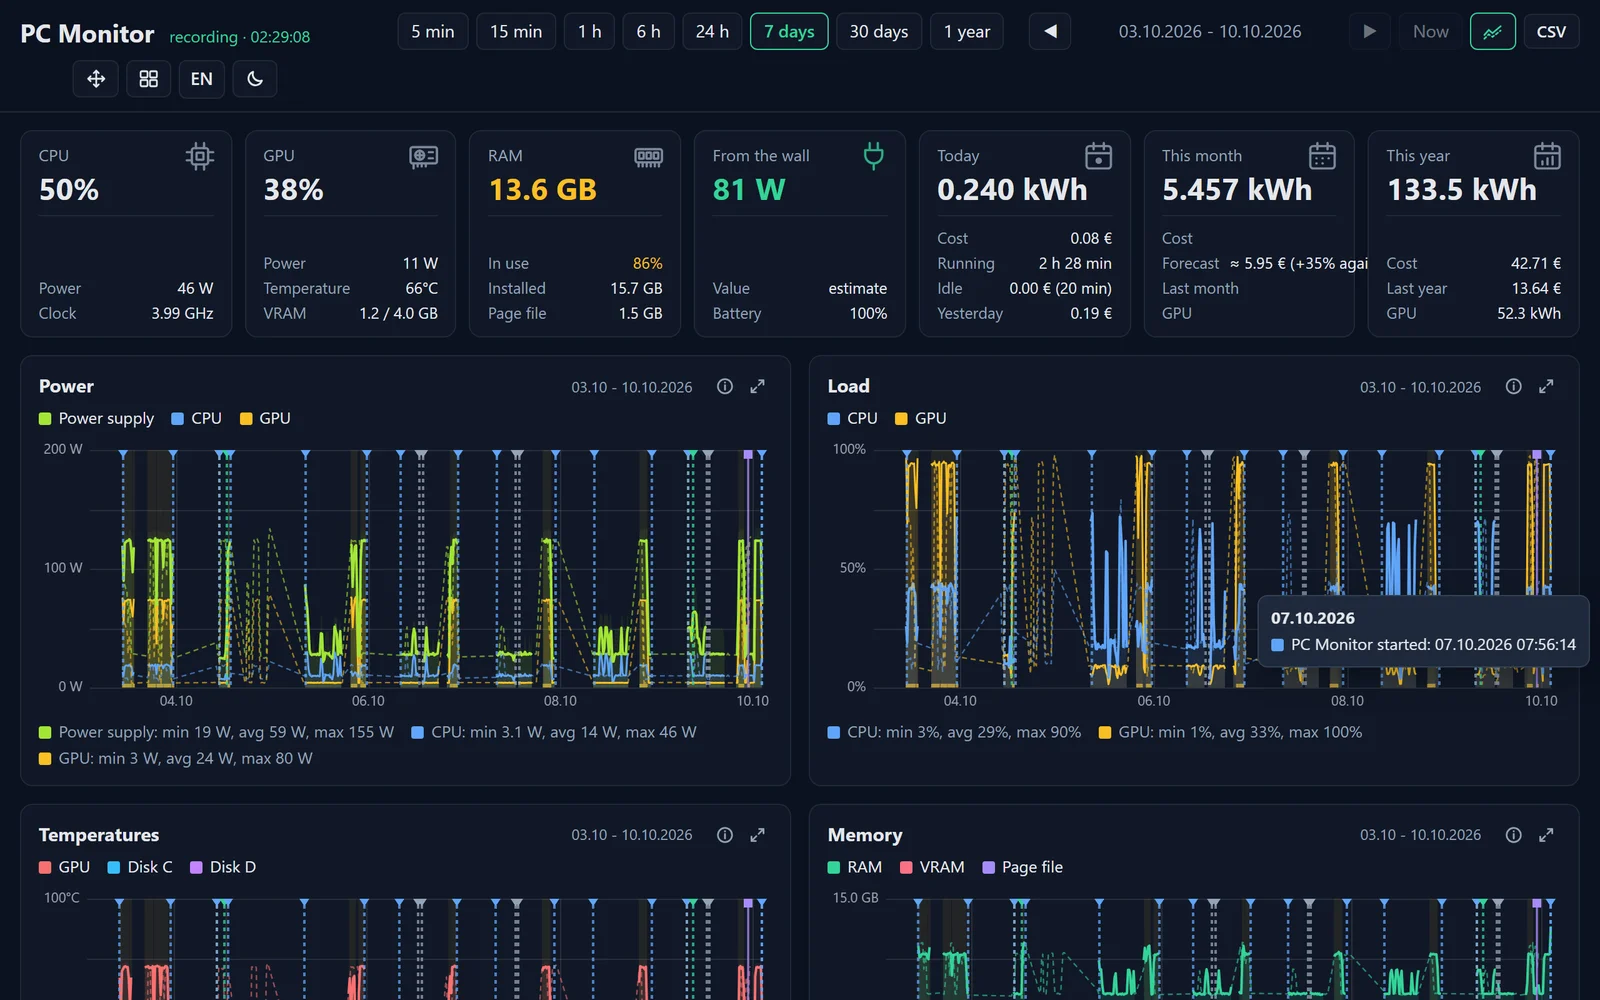
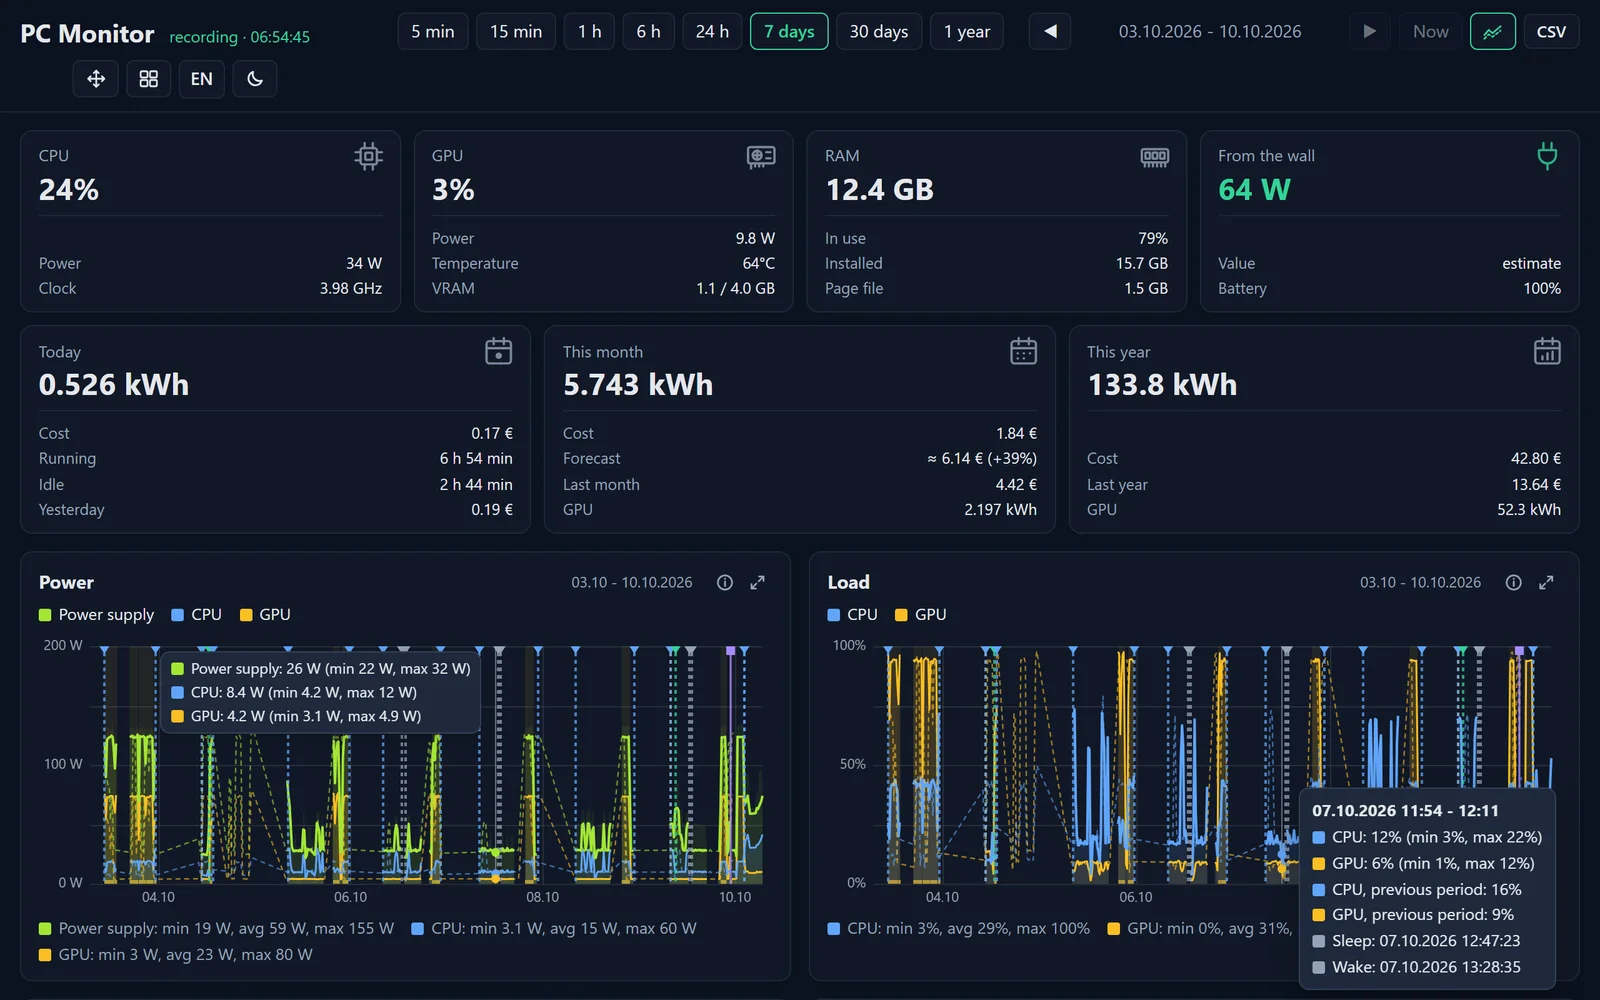
Release 1.14.1

diff --git a/README.md b/README.md
@@ -2,7 +2,7 @@
 
 # PC Monitor
 
-![version](https://img.shields.io/badge/version-v1.14.0-blue?style=flat)
+![version](https://img.shields.io/badge/version-v1.14.1-blue?style=flat)
 ![Platform](https://img.shields.io/badge/platform-Windows%2010%20%7C%2011%20x64-0078d4)
 ![Licence](https://img.shields.io/badge/licence-freeware-34d399)
 
@@ -55,7 +55,7 @@ it learns the draw of the rest of the hardware, which makes the wall estimate ac
 "More info" and "Run anyway". You can check a file first against `SHA256SUMS.txt` of its release:
 
 ```powershell
-Get-FileHash .\PC-Monitor-Setup-1.14.0.exe -Algorithm SHA256
+Get-FileHash .\PC-Monitor-Setup-1.14.1.exe -Algorithm SHA256
 ```
 
 **More sensors (optional):** CPU temperature and fans need a kernel driver, so PC Monitor reads them from

diff --git a/CHANGELOG.md b/CHANGELOG.md
@@ -1,5 +1,15 @@
 # Changelog
 
+## 1.14.1 - 2026-10-10
+
+- The values of the tiles always fit in their tiles: all seven tiles in one row from a 1450 px wide window (4 + 3
+  below), the forecast shows its change in brackets, the idle row its time (its cost is in the tip of the tile).
+- The values next to the cursor on the other charts stay inside their charts, long lines wrap.
+- Ranges longer than two months show months in the chart heads, so the titles of narrow cards are not cut.
+- A hint no longer appears after the mouse has moved on, and no hint covers the tooltip of a chart.
+- After a quick change of the period (or a note added just before it) the dashboard always shows the latest period.
+- New screenshots.
+
 ## 1.14.0 - 2026-10-10
 
 The first public release.
